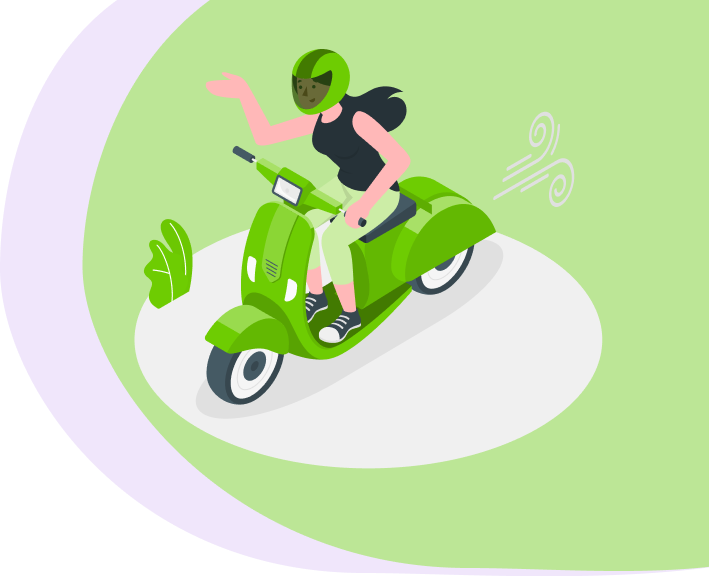
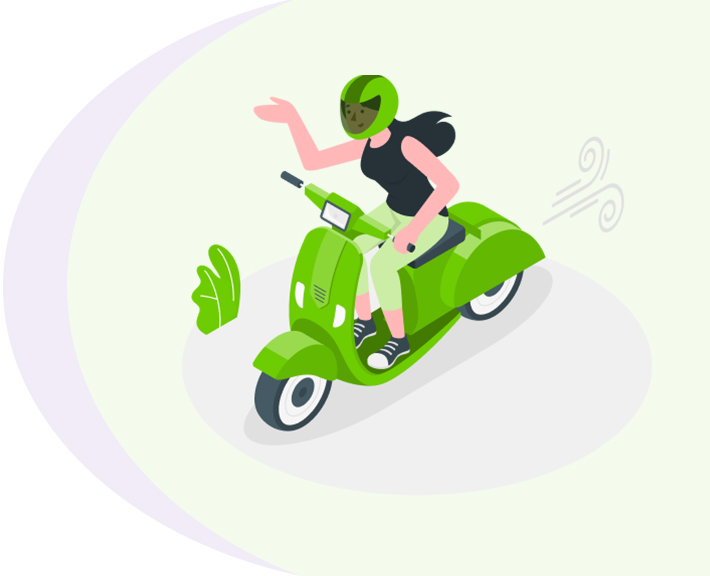
replaced the images

diff --git a/index.html b/index.html
@@ -182,7 +182,7 @@
     <div class="container-fluid" id="download">
         <div class="row">
             <div class="col-md-6 col-sm-12 leftBlock">
-                <img src="./Assets/Vectors/Frame7.png" alt="Frame7.png">
+                <img src="./Assets/Vectors/Frame8.png" alt="Frame7.png">
             </div>
             <div class="col-md-6 col-sm-12 rightBlock">
                 <h1>Download for hassle- <br> free rides</h1>

diff --git a/css/style.css b/css/style.css
@@ -172,7 +172,7 @@
 /* end business section */
 
 #download .leftBlock img{
-    height: 100vh;
+    height: 90vh;
 }
 #download .rightBlock{
     margin-top: 195px;
